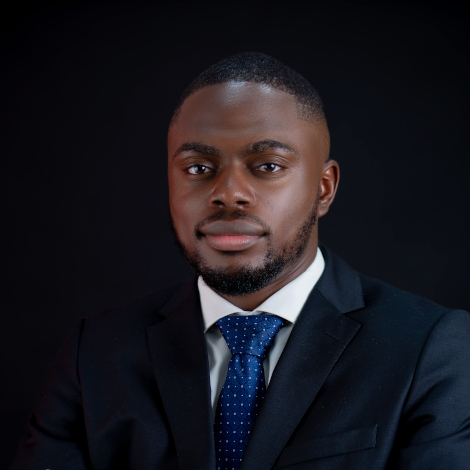
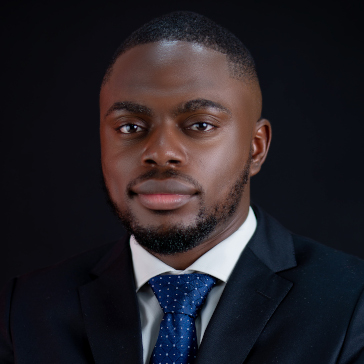
V0.9.2
Added Project Page
Resized avatar
Made resume download instead of opening in new tab(hopefully)

diff --git a/projects.html b/projects.html
@@ -1,0 +1,127 @@
+<!DOCTYPE html>
+<html>
+
+<head>
+<!-- Google tag (gtag.js) -->
+<script async src="https://www.googletagmanager.com/gtag/js?id=G-4RHJ5BBLW9"></script>
+<script>
+  window.dataLayer = window.dataLayer || [];
+  function gtag(){dataLayer.push(arguments);}
+  gtag('js', new Date());
+
+  gtag('config', 'G-4RHJ5BBLW9');
+</script>
+
+  <title>Projects | Leke Onashile</title>
+  <meta http-equiv="Content-Type" content="text/html; charset=UTF-8" />
+  <meta name="viewport" content="initial-scale=1, maximum-scale=1, user-scalable=no" />
+  <meta name="description" content="Leke Onashile" />
+  <meta name="keywords" content="Leke Onashile, homepage, introduction, Leke Onashile, Onashile" />
+  <meta name="robots" content="noindex, nofollow" />
+  <meta name="language" content="English" />
+  <meta name="author" content="'Leke Onashile" />
+  <link rel="shortcut icon" href="/favicon/fav.png" type="image/x-png" />
+  <style>
+   @font-face {
+      font-family: 'Noto Sans TC';
+      font-style: normal;
+      font-weight: 400;
+      src: local('Noto Sans TC Regular'), local('NotoSansTC-Regular'), url(https://fonts.gstatic.com/s/notosanstc/v4/-nF7OG829Oofr2wohFbTp9i1OCEJ.otf) format('opentype');
+    }
+
+    body {
+      margin: 0;
+      /* background-color: #f7f4ed; */
+    }
+
+    a {
+      color: #000;
+      font-weight: 900;
+    }
+
+    .body {
+      font-family: 'Noto Sans TC', sans-serif;
+      display: flex;
+      justify-content: center;
+      flex-wrap: wrap;
+    }
+
+    .holdon {
+      margin-top: 50px;
+      width: 100%;
+    }
+
+    .avatar {
+      border-radius: 50%;
+    }
+
+    .intro {
+      font-size: 18px;
+    }
+     .night-mode {
+      background-color: black;
+      color: white;
+      }
+
+    @media only screen and (max-width: 1000px) {
+      .intro {
+        margin: 0 30%;
+      }
+    }
+
+    @media only screen and (max-width: 800px) {
+      .intro {
+        margin: 0 25%;
+      }
+    }
+
+    @media only screen and (max-width: 600px) {
+      .intro {
+        margin: 0 32px;
+      }
+    }
+
+    .social {
+      text-align: right;
+    }
+
+    .social a {
+      text-decoration: none;
+    }
+
+    .icon {
+      width: 25px;
+      margin-left: 20px;
+    }
+  </style>
+</head>
+
+<body>
+<div id="app" class="row">
+    <div class="col-xs-12 col-sm-10 col-sm-offset-1">
+        <div class="row center-xs">
+            <div class="col-xs-12 header">Projects</div>
+        </div> 
+    <div class="row">
+        <div class="col-xs-6 col-md-4 col-sm-3 proj">
+            <div class="block">
+                <a href="https://lekeonashile.itch.io/fractured-gems" target="_blank">
+                    <img width="100px;" src="https://cdn.statically.io/gh/LekeOnashile/LekeNash-homepage/main/projects/assets/FracturedGems.png" alt="proj link" class="proj-logo">
+                </a>
+            </div> 
+            <div class="block proj-name">Fractured Gems</div> 
+            <div class="block proj-desc"></div>
+        </div>
+        <div class="col-xs-6 col-md-4 col-sm-3 proj">
+            <div class="block">
+                <a href="https://lastinlineforusernames.itch.io/bare-bones-apothecary" target="_blank">
+                    <img width="100px;" src="https://cdn.statically.io/gh/LekeOnashile/LekeNash-homepage/main/projects/assets/BBA.png" alt="proj link" class="proj-logo">
+                </a>
+            </div> 
+            <div class="block proj-name">Bare-Bones Apothecary</div> 
+            <div class="block proj-desc"></div>
+        </div>
+    </div>
+</div>
+</body>
+</html>
